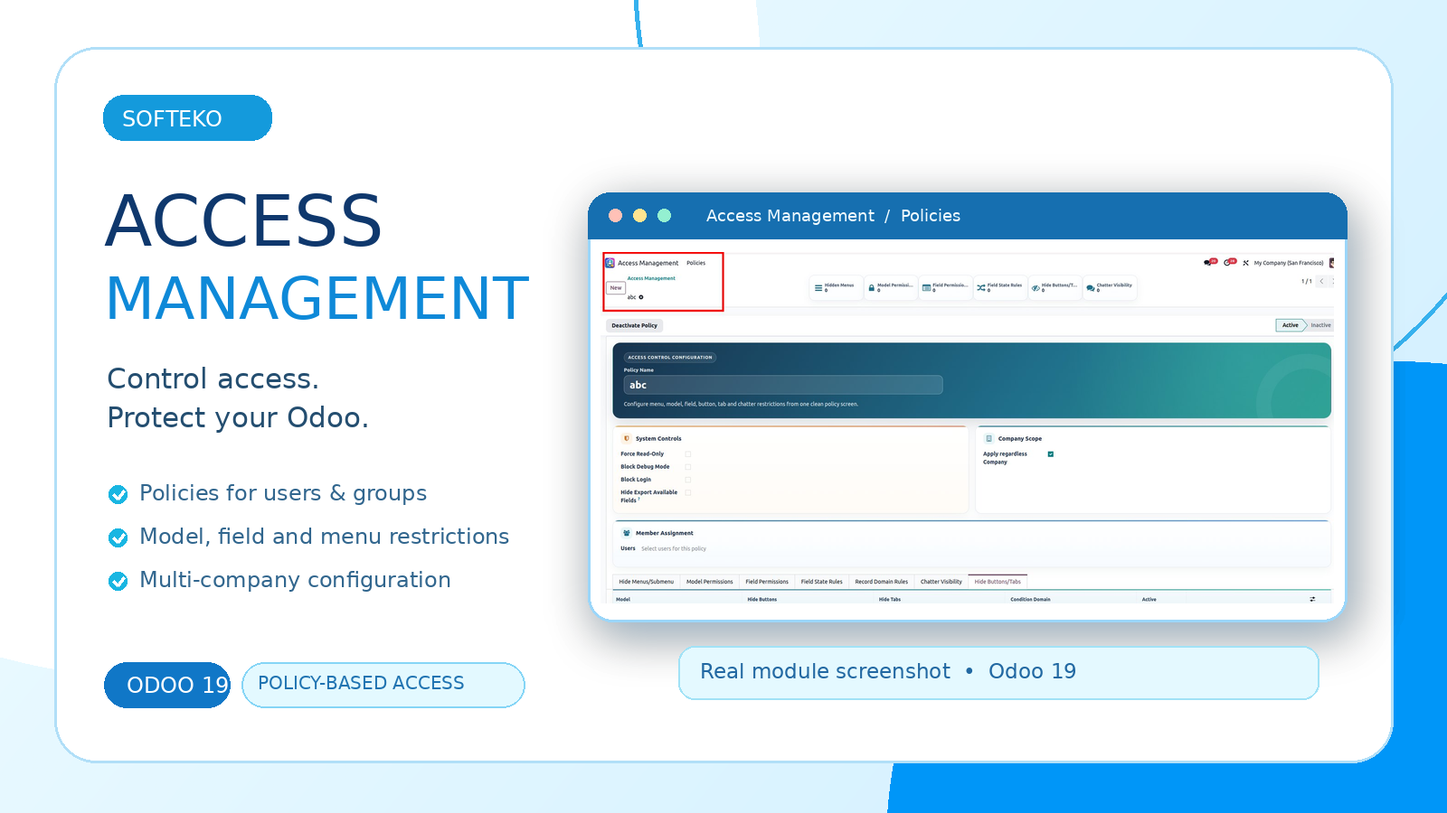
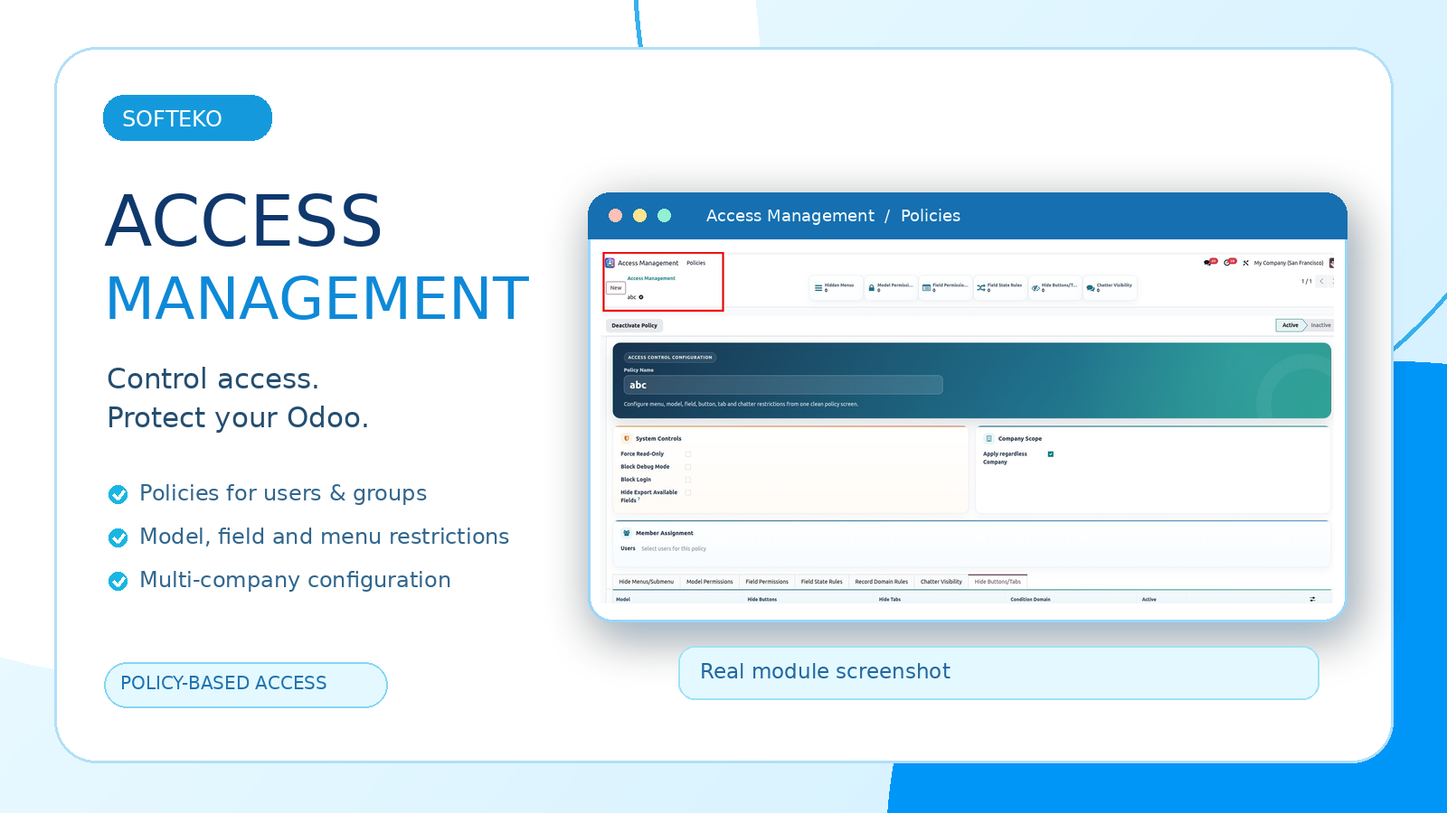
auto update 2026-11-23 15:57:50

Changed region(s): [[0.0625, 0.8089, 0.375, 0.8711], [0.6875, 0.8089, 0.75, 0.84]]

diff --git a/permission_manager_basic/static/description/index.html b/permission_manager_basic/static/description/index.html
@@ -3,7 +3,7 @@
 <head>
     <meta charset="utf-8"/>
     <meta name="viewport" content="width=device-width, initial-scale=1"/>
-    <title>Access Management for Odoo 19 | Softeko</title>
+    <title>Access Management | Softeko</title>
 </head>
 <body style="margin:0;background:#f7fcff;color:#173e60;font-family:Arial,Helvetica,sans-serif;line-height:1.6;">
 <!--
@@ -20,7 +20,6 @@
             <img src="images/softeko_logo.png" alt="Softeko" style="display:block;height:44px;width:auto;"/>
         </a>
         <div style="display:flex;flex-wrap:wrap;gap:6px;align-items:center;">
-            <span style="display:inline-block;padding:6px 12px;border-radius:20px;background:#149bd6;color:#ffffff;font-size:12px;font-weight:800;letter-spacing:.4px;">Odoo 19</span>
             <span style="display:inline-block;padding:6px 12px;border-radius:20px;background:#eaf8ff;color:#1277a9;border:1px solid #bfe6f8;font-size:12px;font-weight:700;">v19.0.1.0.14</span>
             <span style="display:inline-block;padding:6px 12px;border-radius:20px;background:#eaf8ff;color:#1277a9;border:1px solid #bfe6f8;font-size:12px;font-weight:700;">LGPL-3</span>
             <span style="display:inline-block;padding:6px 12px;border-radius:20px;background:#eaf8ff;color:#1277a9;border:1px solid #bfe6f8;font-size:12px;font-weight:700;">Administration / Access Rights</span>
@@ -32,7 +31,7 @@
         <div class="row" style="margin:0;align-items:center;">
             <div class="col-lg-6 col-md-6 col-12" style="padding:40px 30px 40px 38px;">
                 <div style="display:inline-block;padding:8px 15px;border:1px solid #9fddf8;background:#ffffff;border-radius:30px;color:#097fb6;font-size:12px;font-weight:800;letter-spacing:1.5px;">
-                    <span class="spinner-grow" role="status" style="width:9px;height:9px;color:#20c997;vertical-align:middle;margin:-2px 7px 0 0;"></span>SOFTEKO &nbsp; / &nbsp; ODOO 19
+                    <span class="spinner-grow" role="status" style="width:9px;height:9px;color:#20c997;vertical-align:middle;margin:-2px 7px 0 0;"></span>SOFTEKO &nbsp; / &nbsp; ACCESS CONTROL
                 </div>
                 <div style="display:flex;align-items:center;gap:16px;margin:20px 0 14px;">
                     <img src="icon.png?v=19.0.1.0.14" alt="Access Management module icon" style="width:76px;height:76px;border-radius:20px;box-shadow:0 10px 24px rgba(20,120,190,.28);flex:0 0 76px;"/>
@@ -51,7 +50,7 @@
                     <span style="display:inline-block;margin:3px 5px 3px 0;padding:8px 12px;border-radius:22px;background:#ffffff;color:#167eb2;border:1px solid #b5e6fa;font-size:12px;font-weight:700;">✓ Multi-Company Scope</span>
                     <span style="display:inline-block;margin:3px 5px 3px 0;padding:8px 12px;border-radius:22px;background:#ffffff;color:#167eb2;border:1px solid #b5e6fa;font-size:12px;font-weight:700;">✓ Granular Controls</span>
                 </div>
-                <div style="margin-top:18px;color:#247ca9;font-size:12px;font-weight:700;letter-spacing:.6px;">BUILT FOR ODOO 19 &nbsp; • &nbsp; NO ODOO CORE MODIFICATIONS</div>
+                <div style="margin-top:18px;color:#247ca9;font-size:12px;font-weight:700;letter-spacing:.6px;">POLICY-BASED ACCESS &nbsp; • &nbsp; NO ODOO CORE MODIFICATIONS</div>
             </div>
             <div class="col-lg-6 col-md-6 col-12" style="padding:18px 18px 18px 8px;">
                 <div style="padding:8px;background:#ffffff;border:1px solid #c5e6fa;border-radius:22px;box-shadow:0 16px 35px rgba(26,129,184,.17);">
@@ -93,7 +92,7 @@
             <!-- ============ TAB 1: OVERVIEW ============ -->
             <div class="tab-pane fade show active" id="am-pane-overview" role="tabpanel" aria-labelledby="am-tab-overview">
                 <div style="padding:8px;background:#ffffff;border:1px solid #c9e7f7;border-radius:20px;box-shadow:0 12px 32px rgba(26,102,144,.07);">
-                    <img src="images/main_screenshot.png" alt="Softeko Access Management cover featuring a real Odoo 19 policy configuration screenshot" style="width:100%;display:block;height:auto;border-radius:14px;"/>
+                    <img src="images/main_screenshot.png?v=2" alt="Softeko Access Management cover featuring a real Odoo policy configuration screenshot" style="width:100%;display:block;height:auto;border-radius:14px;"/>
                 </div>
 
                 <div style="text-align:center;margin:34px 0 16px;">
@@ -130,7 +129,7 @@
                     <div style="display:inline-block;font-size:11px;letter-spacing:1.6px;color:#0987c1;font-weight:800;">COMPLETE POLICY TAB GUIDE</div>
                     <h2 style="margin:6px 0 8px;font-size:28px;line-height:1.25;color:#123d5f;">What does every tab do?</h2>
                     <p style="font-size:14px;color:#507d97;line-height:1.75;margin:0;max-width:900px;">The Access Management policy form includes <strong>8 main configuration tabs</strong>. Select a tab on the left to see its purpose, available settings and an everyday example. <strong>Field Controls</strong> also includes <strong>3 sub-tabs</strong>.</p>
-                    <div style="margin-top:13px;padding:11px 13px;border:1px solid #b6e3f7;border-radius:12px;background:#ffffff;color:#3a7595;font-size:12px;line-height:1.65;">💡 <strong>Start here:</strong> Create a policy, select users or groups, choose its company scope, then add only the restrictions you need. The details below follow the labels in the Odoo 19 policy form.</div>
+                    <div style="margin-top:13px;padding:11px 13px;border:1px solid #b6e3f7;border-radius:12px;background:#ffffff;color:#3a7595;font-size:12px;line-height:1.65;">💡 <strong>Start here:</strong> Create a policy, select users or groups, choose its company scope, then add only the restrictions you need. The details below follow the labels in the Access Management policy form.</div>
                 </div>
 
                 <div class="row" style="margin:16px -8px 0;">
@@ -163,7 +162,7 @@
                                         <ul style="padding-left:18px;margin:0;"><li style="margin:0 0 7px;color:#476d88;font-size:13px;line-height:1.65;">Select the exact Menu Entry; its display label and parent menu are shown for clarity.</li><li style="margin:0 0 7px;color:#476d88;font-size:13px;line-height:1.65;">Set an optional Condition Domain for rule-specific applicability.</li><li style="margin:0 0 7px;color:#476d88;font-size:13px;line-height:1.65;">Switch a line on or off using its Active setting.</li></ul>
                                         <div style="background:#eaf8ff;border-radius:11px;padding:11px 13px;margin-top:12px;color:#26709a;font-size:12px;line-height:1.6;"><strong style="color:#096c9f;">Example use:</strong> Keep selected configuration or accounting menus out of a trainee user&#x27;s navigation.</div>
                                         <div style="margin:10px 0 0;padding:10px 12px;border-radius:10px;border-left:3px solid #32b1e5;background:#f1faff;font-size:12px;line-height:1.6;color:#46738d;"><strong style="color:#106b9e;">Good to know:</strong> Menu hiding changes navigation visibility; use Model Permissions for operation-level restrictions.</div>
-                                        <div style="margin-top:16px;"><div style="display:flex;align-items:center;justify-content:space-between;flex-wrap:wrap;gap:6px;margin-bottom:7px;"><span style="font-size:11px;font-weight:800;letter-spacing:.8px;color:#1183ba;">📸 ACTUAL ODOO 19 SCREEN</span><span style="font-size:11px;color:#6b8aa0;">Policy form › Hide Menus/Submenu</span></div><div style="padding:6px;background:#f3faff;border:1px solid #d3ecf9;border-radius:13px;box-shadow:0 6px 16px rgba(28,113,166,.07);"><img src="images/tab_menus.png" alt="Hide Menus/Submenu tab in the Access Management policy form" style="display:block;width:100%;height:auto;border-radius:9px;"/></div></div>
+                                        <div style="margin-top:16px;"><div style="display:flex;align-items:center;justify-content:space-between;flex-wrap:wrap;gap:6px;margin-bottom:7px;"><span style="font-size:11px;font-weight:800;letter-spacing:.8px;color:#1183ba;">📸 ACTUAL ODOO SCREEN</span><span style="font-size:11px;color:#6b8aa0;">Policy form › Hide Menus/Submenu</span></div><div style="padding:6px;background:#f3faff;border:1px solid #d3ecf9;border-radius:13px;box-shadow:0 6px 16px rgba(28,113,166,.07);"><img src="images/tab_menus.png" alt="Hide Menus/Submenu tab in the Access Management policy form" style="display:block;width:100%;height:auto;border-radius:9px;"/></div></div>
                                     </div>
                                 </div>
                             </div>
@@ -183,7 +182,7 @@
                                             <span style="display:inline-block;margin:3px 4px 3px 0;padding:5px 10px;border-radius:16px;background:#e3f5ff;color:#137cad;font-size:11px;font-weight:800;">Read</span><span style="display:inline-block;margin:3px 4px 3px 0;padding:5px 10px;border-radius:16px;background:#e3f5ff;color:#137cad;font-size:11px;font-weight:800;">Create</span><span style="display:inline-block;margin:3px 4px 3px 0;padding:5px 10px;border-radius:16px;background:#e3f5ff;color:#137cad;font-size:11px;font-weight:800;">Edit</span><span style="display:inline-block;margin:3px 4px 3px 0;padding:5px 10px;border-radius:16px;background:#e3f5ff;color:#137cad;font-size:11px;font-weight:800;">Delete</span><span style="display:inline-block;margin:3px 4px 3px 0;padding:5px 10px;border-radius:16px;background:#e3f5ff;color:#137cad;font-size:11px;font-weight:800;">Archive</span><span style="display:inline-block;margin:3px 4px 3px 0;padding:5px 10px;border-radius:16px;background:#e3f5ff;color:#137cad;font-size:11px;font-weight:800;">Unarchive</span><span style="display:inline-block;margin:3px 4px 3px 0;padding:5px 10px;border-radius:16px;background:#e3f5ff;color:#137cad;font-size:11px;font-weight:800;">Duplicate</span><span style="display:inline-block;margin:3px 4px 3px 0;padding:5px 10px;border-radius:16px;background:#e3f5ff;color:#137cad;font-size:11px;font-weight:800;">Import</span><span style="display:inline-block;margin:3px 4px 3px 0;padding:5px 10px;border-radius:16px;background:#e3f5ff;color:#137cad;font-size:11px;font-weight:800;">Export</span>
                                         </div>
                                         <div style="background:#eaf8ff;border-radius:11px;padding:11px 13px;margin-top:12px;color:#26709a;font-size:12px;line-height:1.6;"><strong style="color:#096c9f;">Example use:</strong> Allow team members to review sales records, but block deletion and duplication.</div>
-                                        <div style="margin-top:16px;"><div style="display:flex;align-items:center;justify-content:space-between;flex-wrap:wrap;gap:6px;margin-bottom:7px;"><span style="font-size:11px;font-weight:800;letter-spacing:.8px;color:#1183ba;">📸 ACTUAL ODOO 19 SCREEN</span><span style="font-size:11px;color:#6b8aa0;">Model Permissions › line form</span></div><div style="padding:6px;background:#f3faff;border:1px solid #d3ecf9;border-radius:13px;box-shadow:0 6px 16px rgba(28,113,166,.07);"><img src="images/tab_models.png" alt="Model Permissions line form with blocked operations and view-switcher options" style="display:block;width:100%;height:auto;border-radius:9px;"/></div></div>
+                                        <div style="margin-top:16px;"><div style="display:flex;align-items:center;justify-content:space-between;flex-wrap:wrap;gap:6px;margin-bottom:7px;"><span style="font-size:11px;font-weight:800;letter-spacing:.8px;color:#1183ba;">📸 ACTUAL ODOO SCREEN</span><span style="font-size:11px;color:#6b8aa0;">Model Permissions › line form</span></div><div style="padding:6px;background:#f3faff;border:1px solid #d3ecf9;border-radius:13px;box-shadow:0 6px 16px rgba(28,113,166,.07);"><img src="images/tab_models.png" alt="Model Permissions line form with blocked operations and view-switcher options" style="display:block;width:100%;height:auto;border-radius:9px;"/></div></div>
                                     </div>
                                 </div>
                             </div>
@@ -200,7 +199,7 @@
                                         <div style="font-size:11px;font-weight:800;letter-spacing:.8px;color:#1183ba;margin:8px 0 8px;">WHAT YOU CAN CONFIGURE</div>
                                         <ul style="padding-left:18px;margin:0;"><li style="margin:0 0 7px;color:#476d88;font-size:13px;line-height:1.65;">Hide the full Search Menu, or configure Filters, Group By and Favorites separately.</li><li style="margin:0 0 7px;color:#476d88;font-size:13px;line-height:1.65;">Control Custom Filter, Custom Group By and Save Current Search options.</li><li style="margin:0 0 7px;color:#476d88;font-size:13px;line-height:1.65;">Configure a different set of search choices for each selected model.</li></ul>
                                         <div style="background:#eaf8ff;border-radius:11px;padding:11px 13px;margin-top:12px;color:#26709a;font-size:12px;line-height:1.6;"><strong style="color:#096c9f;">Example use:</strong> Keep a simple search interface for new employees without advanced custom filters.</div>
-                                        <div style="margin-top:16px;"><div style="display:flex;align-items:center;justify-content:space-between;flex-wrap:wrap;gap:6px;margin-bottom:7px;"><span style="font-size:11px;font-weight:800;letter-spacing:.8px;color:#1183ba;">📸 ACTUAL ODOO 19 SCREEN</span><span style="font-size:11px;color:#6b8aa0;">Search Panel › line form</span></div><div style="padding:6px;background:#f3faff;border:1px solid #d3ecf9;border-radius:13px;box-shadow:0 6px 16px rgba(28,113,166,.07);"><img src="images/tab_search.png" alt="Search Panel line form with search dropdown access options" style="display:block;width:100%;height:auto;border-radius:9px;"/></div></div>
+                                        <div style="margin-top:16px;"><div style="display:flex;align-items:center;justify-content:space-between;flex-wrap:wrap;gap:6px;margin-bottom:7px;"><span style="font-size:11px;font-weight:800;letter-spacing:.8px;color:#1183ba;">📸 ACTUAL ODOO SCREEN</span><span style="font-size:11px;color:#6b8aa0;">Search Panel › line form</span></div><div style="padding:6px;background:#f3faff;border:1px solid #d3ecf9;border-radius:13px;box-shadow:0 6px 16px rgba(28,113,166,.07);"><img src="images/tab_search.png" alt="Search Panel line form with search dropdown access options" style="display:block;width:100%;height:auto;border-radius:9px;"/></div></div>
                                     </div>
                                 </div>
                             </div>
@@ -269,7 +268,7 @@
                                         <ul style="padding-left:18px;margin:0;"><li style="margin:0 0 7px;color:#476d88;font-size:13px;line-height:1.65;">Select the Model and define a Filter Expression using an Odoo domain.</li><li style="margin:0 0 7px;color:#476d88;font-size:13px;line-height:1.65;">Optionally choose a Current User Field to restrict matching records to the signed-in user.</li><li style="margin:0 0 7px;color:#476d88;font-size:13px;line-height:1.65;">Read, Write, Create and Delete scope switches are present in the configuration.</li></ul>
                                         <div style="background:#eaf8ff;border-radius:11px;padding:11px 13px;margin-top:12px;color:#26709a;font-size:12px;line-height:1.6;"><strong style="color:#096c9f;">Example use:</strong> Use a Read filter to display only opportunities assigned to the current salesperson.</div>
                                         <div style="margin:10px 0 0;padding:10px 12px;border-radius:10px;border-left:3px solid #32b1e5;background:#f1faff;font-size:12px;line-height:1.6;color:#46738d;"><strong style="color:#106b9e;">Good to know:</strong> Read-scope filtering is verified in the module source. The other scope switches should be tested before relying on them as backend enforcement.</div>
-                                        <div style="margin-top:16px;"><div style="display:flex;align-items:center;justify-content:space-between;flex-wrap:wrap;gap:6px;margin-bottom:7px;"><span style="font-size:11px;font-weight:800;letter-spacing:.8px;color:#1183ba;">📸 ACTUAL ODOO 19 SCREEN</span><span style="font-size:11px;color:#6b8aa0;">Record Domain Rules › line form</span></div><div style="padding:6px;background:#f3faff;border:1px solid #d3ecf9;border-radius:13px;box-shadow:0 6px 16px rgba(28,113,166,.07);"><img src="images/tab_records.png" alt="Record Domain Rules line form with filter expression and operation scope" style="display:block;width:100%;height:auto;border-radius:9px;"/></div></div>
+                                        <div style="margin-top:16px;"><div style="display:flex;align-items:center;justify-content:space-between;flex-wrap:wrap;gap:6px;margin-bottom:7px;"><span style="font-size:11px;font-weight:800;letter-spacing:.8px;color:#1183ba;">📸 ACTUAL ODOO SCREEN</span><span style="font-size:11px;color:#6b8aa0;">Record Domain Rules › line form</span></div><div style="padding:6px;background:#f3faff;border:1px solid #d3ecf9;border-radius:13px;box-shadow:0 6px 16px rgba(28,113,166,.07);"><img src="images/tab_records.png" alt="Record Domain Rules line form with filter expression and operation scope" style="display:block;width:100%;height:auto;border-radius:9px;"/></div></div>
                                     </div>
                                 </div>
                             </div>
@@ -286,7 +285,7 @@
                                         <div style="font-size:11px;font-weight:800;letter-spacing:.8px;color:#1183ba;margin:8px 0 8px;">WHAT YOU CAN CONFIGURE</div>
                                         <ul style="padding-left:18px;margin:0;"><li style="margin:0 0 7px;color:#476d88;font-size:13px;line-height:1.65;">Hide the entire Chatter section, or just the message composer.</li><li style="margin:0 0 7px;color:#476d88;font-size:13px;line-height:1.65;">Control Log Note, Schedule Activity and Search Messages.</li><li style="margin:0 0 7px;color:#476d88;font-size:13px;line-height:1.65;">Hide attachments, followers and the follow/unfollow button.</li></ul>
                                         <div style="background:#eaf8ff;border-radius:11px;padding:11px 13px;margin-top:12px;color:#26709a;font-size:12px;line-height:1.6;"><strong style="color:#096c9f;">Example use:</strong> Keep an internal model form clean by hiding Chatter actions the team does not need.</div>
-                                        <div style="margin-top:16px;"><div style="display:flex;align-items:center;justify-content:space-between;flex-wrap:wrap;gap:6px;margin-bottom:7px;"><span style="font-size:11px;font-weight:800;letter-spacing:.8px;color:#1183ba;">📸 ACTUAL ODOO 19 SCREEN</span><span style="font-size:11px;color:#6b8aa0;">Policy form › Chatter Visibility</span></div><div style="padding:6px;background:#f3faff;border:1px solid #d3ecf9;border-radius:13px;box-shadow:0 6px 16px rgba(28,113,166,.07);"><img src="images/tab_chatter.png" alt="Chatter Visibility tab showing per-model chatter options" style="display:block;width:100%;height:auto;border-radius:9px;"/></div></div>
+                                        <div style="margin-top:16px;"><div style="display:flex;align-items:center;justify-content:space-between;flex-wrap:wrap;gap:6px;margin-bottom:7px;"><span style="font-size:11px;font-weight:800;letter-spacing:.8px;color:#1183ba;">📸 ACTUAL ODOO SCREEN</span><span style="font-size:11px;color:#6b8aa0;">Policy form › Chatter Visibility</span></div><div style="padding:6px;background:#f3faff;border:1px solid #d3ecf9;border-radius:13px;box-shadow:0 6px 16px rgba(28,113,166,.07);"><img src="images/tab_chatter.png" alt="Chatter Visibility tab showing per-model chatter options" style="display:block;width:100%;height:auto;border-radius:9px;"/></div></div>
                                     </div>
                                 </div>
                             </div>
@@ -304,7 +303,7 @@
                                         <ul style="padding-left:18px;margin:0;"><li style="margin:0 0 7px;color:#476d88;font-size:13px;line-height:1.65;">Pick a Model and click Refresh Available Items to discover its buttons and tabs.</li><li style="margin:0 0 7px;color:#476d88;font-size:13px;line-height:1.65;">Choose Hide Buttons and/or Hide Tabs from the available item lists.</li><li style="margin:0 0 7px;color:#476d88;font-size:13px;line-height:1.65;">Add an optional Condition Domain for more targeted UI visibility rules.</li></ul>
                                         <div style="background:#eaf8ff;border-radius:11px;padding:11px 13px;margin-top:12px;color:#26709a;font-size:12px;line-height:1.6;"><strong style="color:#096c9f;">Example use:</strong> Hide an unnecessary workflow button or a sensitive configuration tab.</div>
                                         <div style="margin:10px 0 0;padding:10px 12px;border-radius:10px;border-left:3px solid #32b1e5;background:#f1faff;font-size:12px;line-height:1.6;color:#46738d;"><strong style="color:#106b9e;">Good to know:</strong> This hides user-interface elements; it does not itself prevent a corresponding method being invoked by other routes.</div>
-                                        <div style="margin-top:16px;"><div style="display:flex;align-items:center;justify-content:space-between;flex-wrap:wrap;gap:6px;margin-bottom:7px;"><span style="font-size:11px;font-weight:800;letter-spacing:.8px;color:#1183ba;">📸 ACTUAL ODOO 19 SCREEN</span><span style="font-size:11px;color:#6b8aa0;">Policy form › Hide Buttons/Tabs</span></div><div style="padding:6px;background:#f3faff;border:1px solid #d3ecf9;border-radius:13px;box-shadow:0 6px 16px rgba(28,113,166,.07);"><img src="images/tab_buttons.png" alt="Hide Buttons/Tabs tab showing hidden buttons and form tabs" style="display:block;width:100%;height:auto;border-radius:9px;"/></div></div>
+                                        <div style="margin-top:16px;"><div style="display:flex;align-items:center;justify-content:space-between;flex-wrap:wrap;gap:6px;margin-bottom:7px;"><span style="font-size:11px;font-weight:800;letter-spacing:.8px;color:#1183ba;">📸 ACTUAL ODOO SCREEN</span><span style="font-size:11px;color:#6b8aa0;">Policy form › Hide Buttons/Tabs</span></div><div style="padding:6px;background:#f3faff;border:1px solid #d3ecf9;border-radius:13px;box-shadow:0 6px 16px rgba(28,113,166,.07);"><img src="images/tab_buttons.png" alt="Hide Buttons/Tabs tab showing hidden buttons and form tabs" style="display:block;width:100%;height:auto;border-radius:9px;"/></div></div>
                                     </div>
                                 </div>
                             </div>
@@ -322,7 +321,7 @@
                                         <ul style="padding-left:18px;margin:0;"><li style="margin:0 0 7px;color:#476d88;font-size:13px;line-height:1.65;">Apply regardless of company or select specific companies for policy scope.</li><li style="margin:0 0 7px;color:#476d88;font-size:13px;line-height:1.65;">Force Read-Only for applicable users.</li><li style="margin:0 0 7px;color:#476d88;font-size:13px;line-height:1.65;">Block Debug Mode or Block Login for applicable users.</li><li style="margin:0 0 7px;color:#476d88;font-size:13px;line-height:1.65;">Hide Export Available Fields in the export field browser.</li></ul>
                                         <div style="background:#eaf8ff;border-radius:11px;padding:11px 13px;margin-top:12px;color:#26709a;font-size:12px;line-height:1.6;"><strong style="color:#096c9f;">Example use:</strong> Apply a read-only review policy within selected companies.</div>
                                         <div style="margin:10px 0 0;padding:10px 12px;border-radius:10px;border-left:3px solid #f0a73a;background:#fff8ec;font-size:12px;line-height:1.6;color:#7a5a2a;"><strong style="color:#a0661a;">Use carefully:</strong> Block Login and Force Read-Only can interrupt users&#x27; normal work.</div>
-                                        <div style="margin-top:16px;"><div style="display:flex;align-items:center;justify-content:space-between;flex-wrap:wrap;gap:6px;margin-bottom:7px;"><span style="font-size:11px;font-weight:800;letter-spacing:.8px;color:#1183ba;">📸 ACTUAL ODOO 19 SCREEN</span><span style="font-size:11px;color:#6b8aa0;">Policy form › Global Controls</span></div><div style="padding:6px;background:#f3faff;border:1px solid #d3ecf9;border-radius:13px;box-shadow:0 6px 16px rgba(28,113,166,.07);"><img src="images/tab_global.png" alt="Global Controls tab with company scope, security and export controls" style="display:block;width:100%;height:auto;border-radius:9px;"/></div></div>
+                                        <div style="margin-top:16px;"><div style="display:flex;align-items:center;justify-content:space-between;flex-wrap:wrap;gap:6px;margin-bottom:7px;"><span style="font-size:11px;font-weight:800;letter-spacing:.8px;color:#1183ba;">📸 ACTUAL ODOO SCREEN</span><span style="font-size:11px;color:#6b8aa0;">Policy form › Global Controls</span></div><div style="padding:6px;background:#f3faff;border:1px solid #d3ecf9;border-radius:13px;box-shadow:0 6px 16px rgba(28,113,166,.07);"><img src="images/tab_global.png" alt="Global Controls tab with company scope, security and export controls" style="display:block;width:100%;height:auto;border-radius:9px;"/></div></div>
                                     </div>
                                 </div>
                             </div>
@@ -418,8 +417,8 @@
                     <div class="col-lg-6 col-md-6 col-12" style="padding:7px;">
                         <div style="height:100%;border:1px solid #d4eefa;border-radius:18px;background:#ffffff;padding:24px;">
                             <div style="color:#1494d3;font-size:12px;font-weight:800;letter-spacing:1.5px;">COMPATIBILITY</div>
-                            <h2 style="color:#153f61;font-size:23px;margin:8px 0 12px;">Made for Odoo 19</h2>
-                            <p style="color:#68869b;font-size:14px;margin:0;">Designed for Odoo 19. The module declares <strong>base</strong>, <strong>mail</strong> and <strong>web</strong> as dependencies.</p>
+                            <h2 style="color:#153f61;font-size:23px;margin:8px 0 12px;">Simple installation</h2>
+                            <p style="color:#68869b;font-size:14px;margin:0;">The module declares <strong>base</strong>, <strong>mail</strong> and <strong>web</strong> as dependencies.</p>
                             <p style="color:#68869b;font-size:13px;margin:12px 0 0;">Install the module, assign the Access Management group to authorized managers, then configure policies under Access Management.</p>
                         </div>
                     </div>
@@ -462,7 +461,7 @@
                                 <h3 style="font-size:16px;color:#116f9e;margin:10px 0 4px;">Contact Support</h3>
                                 <p style="font-size:12px;color:#6488a0;margin:0 0 8px;">Questions about setup or permissions?</p>
                                 <a href="https://www.softeko.co/contact/" target="_blank" rel="noopener noreferrer" style="display:block;font-size:13px;font-weight:700;color:#078bc2;text-decoration:underline;overflow-wrap:anywhere;">www.softeko.co/contact/</a>
-                                <a href="mailto:contact@softeko.co?subject=Access%20Management%20Odoo%2019%20Support" style="display:block;font-size:12px;font-weight:700;color:#078bc2;text-decoration:underline;margin-top:6px;overflow-wrap:anywhere;">contact@softeko.co</a>
+                                <a href="mailto:contact@softeko.co?subject=Access%20Management%20Support" style="display:block;font-size:12px;font-weight:700;color:#078bc2;text-decoration:underline;margin-top:6px;overflow-wrap:anywhere;">contact@softeko.co</a>
                             </div>
                         </div>
                     </div>
@@ -471,7 +470,7 @@
                 <div style="margin-top:14px;padding:20px 22px;border:1px solid #d4eefa;border-radius:18px;background:#ffffff;">
                     <div style="color:#1494d3;font-size:12px;font-weight:800;letter-spacing:1.5px;">QUICK ANSWERS</div>
                     <h3 style="color:#153f61;font-size:20px;margin:6px 0 10px;">Frequently asked questions</h3>
-                    <details open="open" style="border:1px solid #d9eff9;border-radius:12px;padding:11px 14px;margin-bottom:8px;background:#f7fcff;"><summary style="cursor:pointer;font-size:14px;font-weight:800;color:#155a7e;">Does it modify Odoo core?</summary><p style="margin:8px 0 0;color:#567c91;font-size:13px;line-height:1.7;">No. It is a regular Odoo 19 module that declares base, mail and web as dependencies.</p></details>
+                    <details open="open" style="border:1px solid #d9eff9;border-radius:12px;padding:11px 14px;margin-bottom:8px;background:#f7fcff;"><summary style="cursor:pointer;font-size:14px;font-weight:800;color:#155a7e;">Does it modify Odoo core?</summary><p style="margin:8px 0 0;color:#567c91;font-size:13px;line-height:1.7;">No. It is a regular Odoo module that declares base, mail and web as dependencies.</p></details>
                     <details style="border:1px solid #d9eff9;border-radius:12px;padding:11px 14px;margin-bottom:8px;background:#f7fcff;"><summary style="cursor:pointer;font-size:14px;font-weight:800;color:#155a7e;">Who can configure policies?</summary><p style="margin:8px 0 0;color:#567c91;font-size:13px;line-height:1.7;">Assign the Access Management group to authorized managers; they configure policies under the Access Management menu.</p></details>
                     <details style="border:1px solid #d9eff9;border-radius:12px;padding:11px 14px;margin-bottom:8px;background:#f7fcff;"><summary style="cursor:pointer;font-size:14px;font-weight:800;color:#155a7e;">Can a policy apply to only some companies?</summary><p style="margin:8px 0 0;color:#567c91;font-size:13px;line-height:1.7;">Yes. In Global Controls, apply a policy regardless of company or select specific companies for its scope.</p></details>
                     <details style="border:1px solid #d9eff9;border-radius:12px;padding:11px 14px;background:#f7fcff;"><summary style="cursor:pointer;font-size:14px;font-weight:800;color:#155a7e;">Is hiding a button the same as blocking access?</summary><p style="margin:8px 0 0;color:#567c91;font-size:13px;line-height:1.7;">No. Button/tab hiding and some search/chatter controls affect the user interface. Use Model Permissions and Record Domain Rules for operation and record restrictions.</p></details>
@@ -484,7 +483,7 @@
     <!-- ===================== FOOTER ===================== -->
     <div style="margin-top:34px;padding:22px 16px;border-top:1px solid #cce9f8;text-align:center;">
         <a href="https://www.softeko.co/" target="_blank" rel="noopener noreferrer" style="display:inline-block;text-decoration:none;"><img src="images/softeko_logo.png" alt="Softeko" style="display:block;height:38px;width:auto;margin:0 auto;"/></a>
-        <div style="margin-top:10px;color:#6c96ad;font-size:12px;letter-spacing:.6px;">ACCESS MANAGEMENT &nbsp; • &nbsp; ODOO 19 &nbsp; • &nbsp; <a href="mailto:contact@softeko.co" style="color:#078bc2;text-decoration:none;">contact@softeko.co</a></div>
+        <div style="margin-top:10px;color:#6c96ad;font-size:12px;letter-spacing:.6px;">ACCESS MANAGEMENT &nbsp; • &nbsp; <a href="mailto:contact@softeko.co" style="color:#078bc2;text-decoration:none;">contact@softeko.co</a></div>
     </div>
 </div>
 </body>
